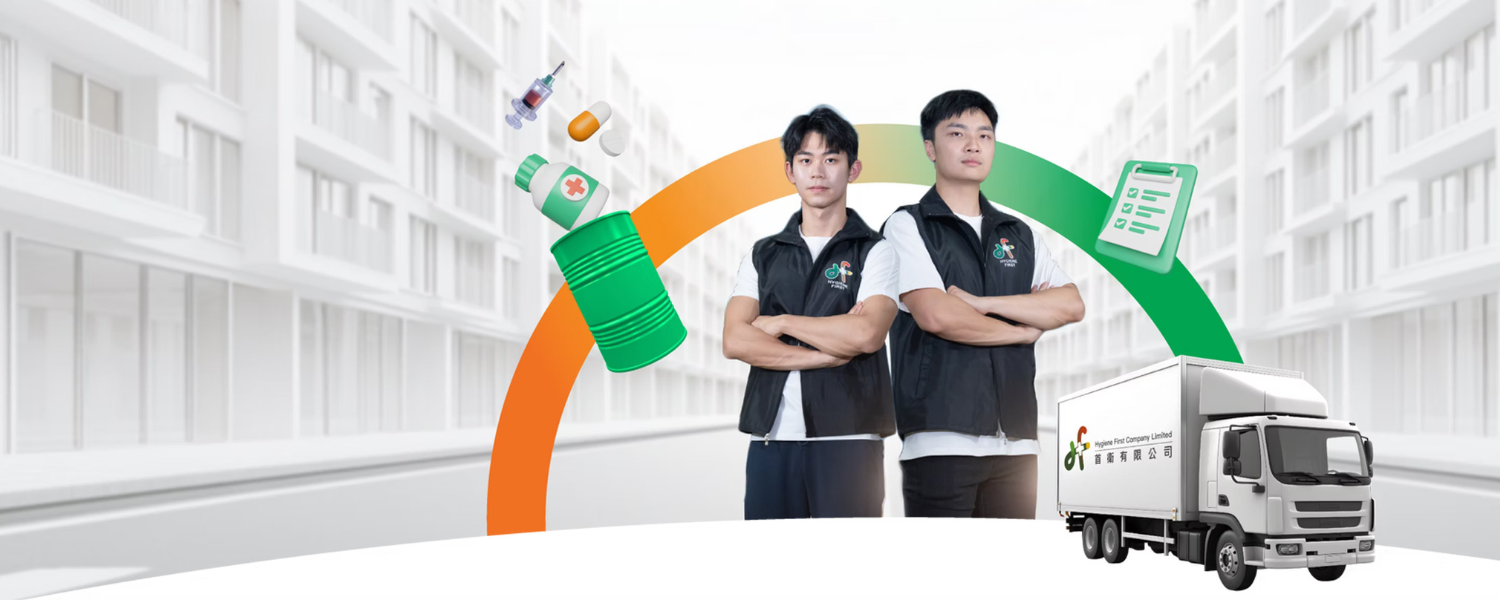
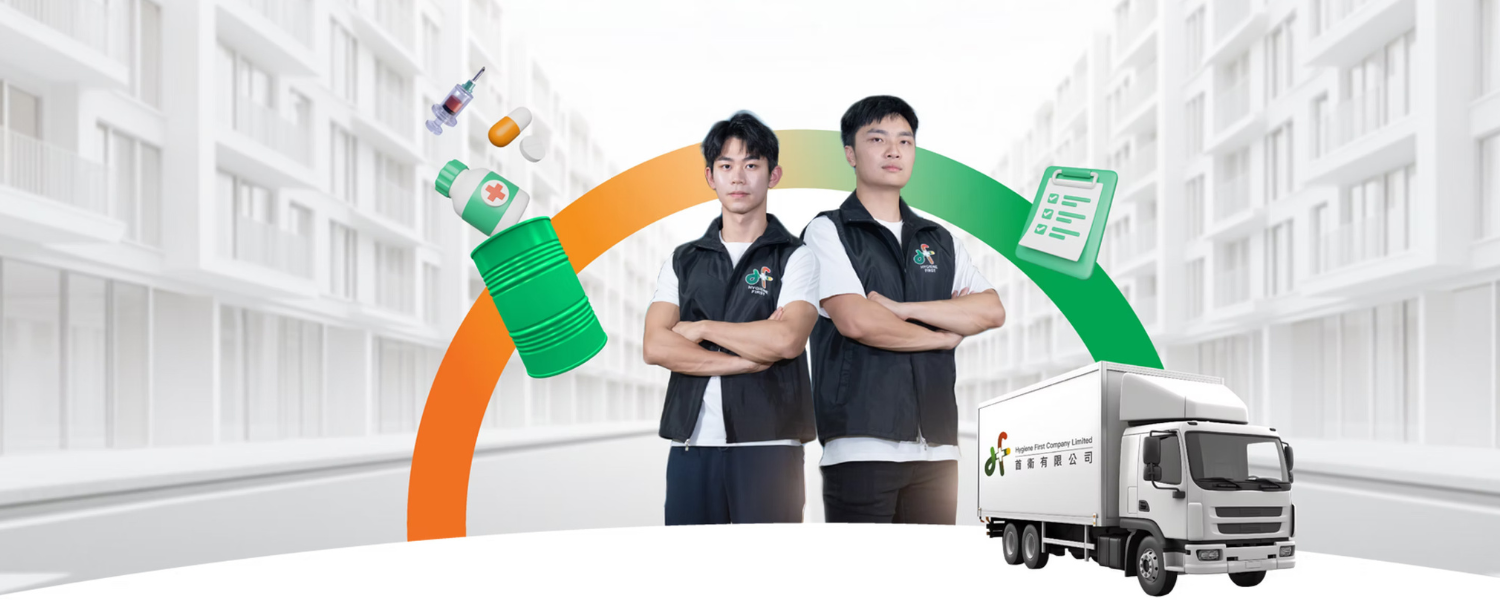
site

diff --git a/community-zh.html b/community-zh.html
@@ -176,7 +176,7 @@
                     <h2 class="mobile-section-title">什麼是社區券？</h2>
                  </div>
                     <div class="content-text mobile-content-text">
-                        <p class="content-paragraph">社區券（長者社區照顧服務券）是政府「居家安老」政策下一個重點資助計劃。作為此計劃的認可服務單位之一，Hygiene First與社會福利署合作，為長者提供家居為本的服務，讓長者能夠使用社區券，以資助價錢使用上門護理服務。</p>
+                        <p class="content-paragraph">社區券（長者社區照顧服務券）是政府「居家安老」一個重點資助計劃。作為此計劃的認可服務單位之一，Hygiene First與社會福利署合作，<br>為長者提供家居為本的服務，讓長者能夠使用社區券，以資助價錢使用上門護理服務。</p>
                     </div>
                 
                 <!-- Fanned out images layout -->
@@ -427,7 +427,7 @@
                             <i class="fas fa-heart"></i>
                         </div>
                         <h3 class="trust-title">支援您家人所需</h3>
-                        <p class="trust-description">我們的服務範疇廣泛。無論是陪診服務、複雜的復康治療，還是個人護理，我們都能在你理想的時段，在你家中為你安排。</p>
+                        <p class="trust-description">我們的服務範疇廣泛。無論是陪診服務、複雜的復康治療，還是個人護理，我們都能在你理想的時段，<br>在你家中為你安排。</p>
                         <div class="service-categories mobile-service-categories">
                             <div class="category mobile-category">
                                 <h4 class="category-title">個人護理</h4>
